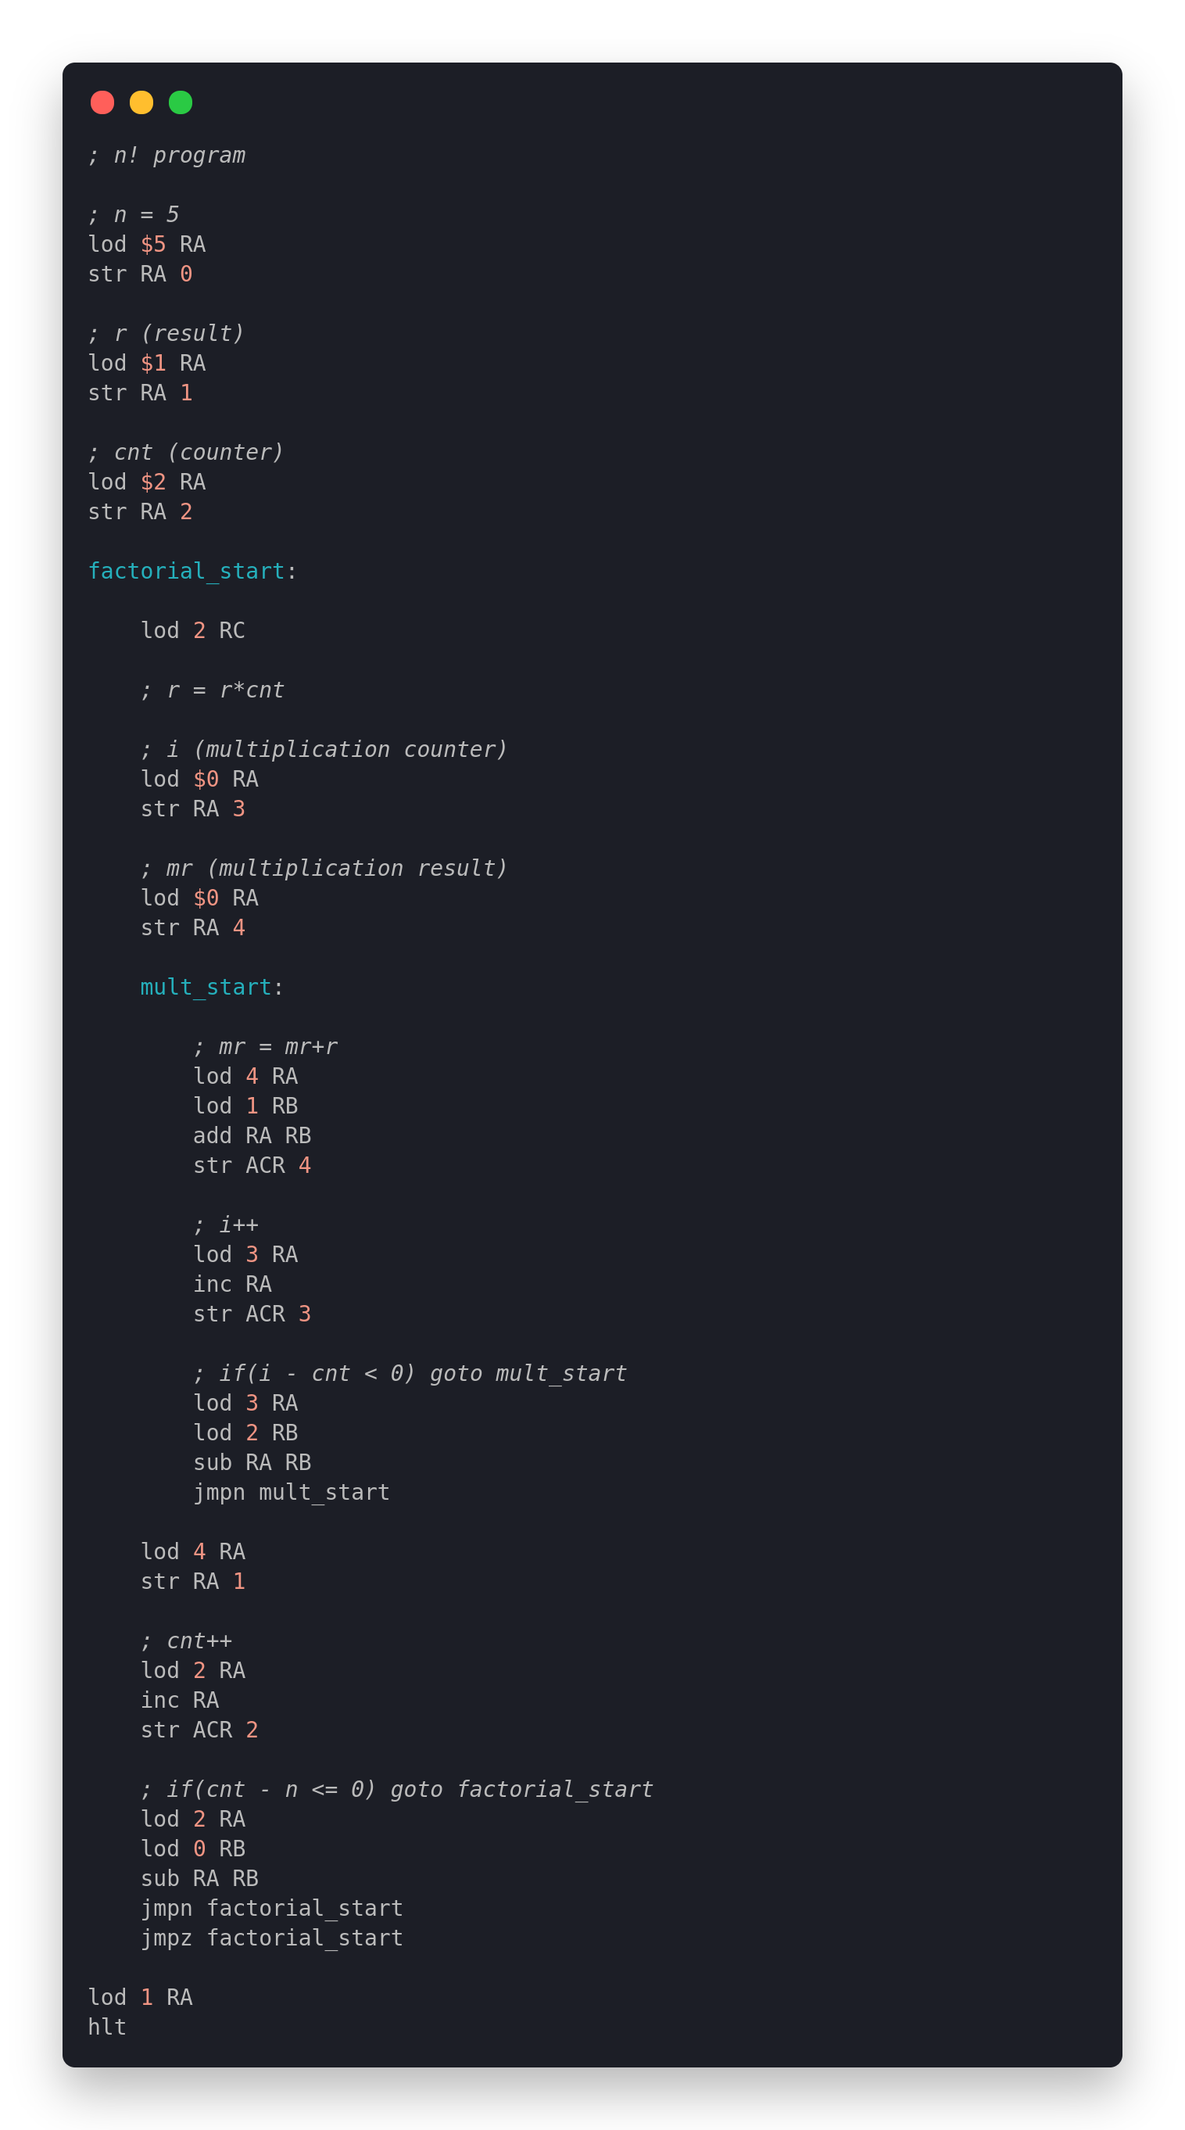
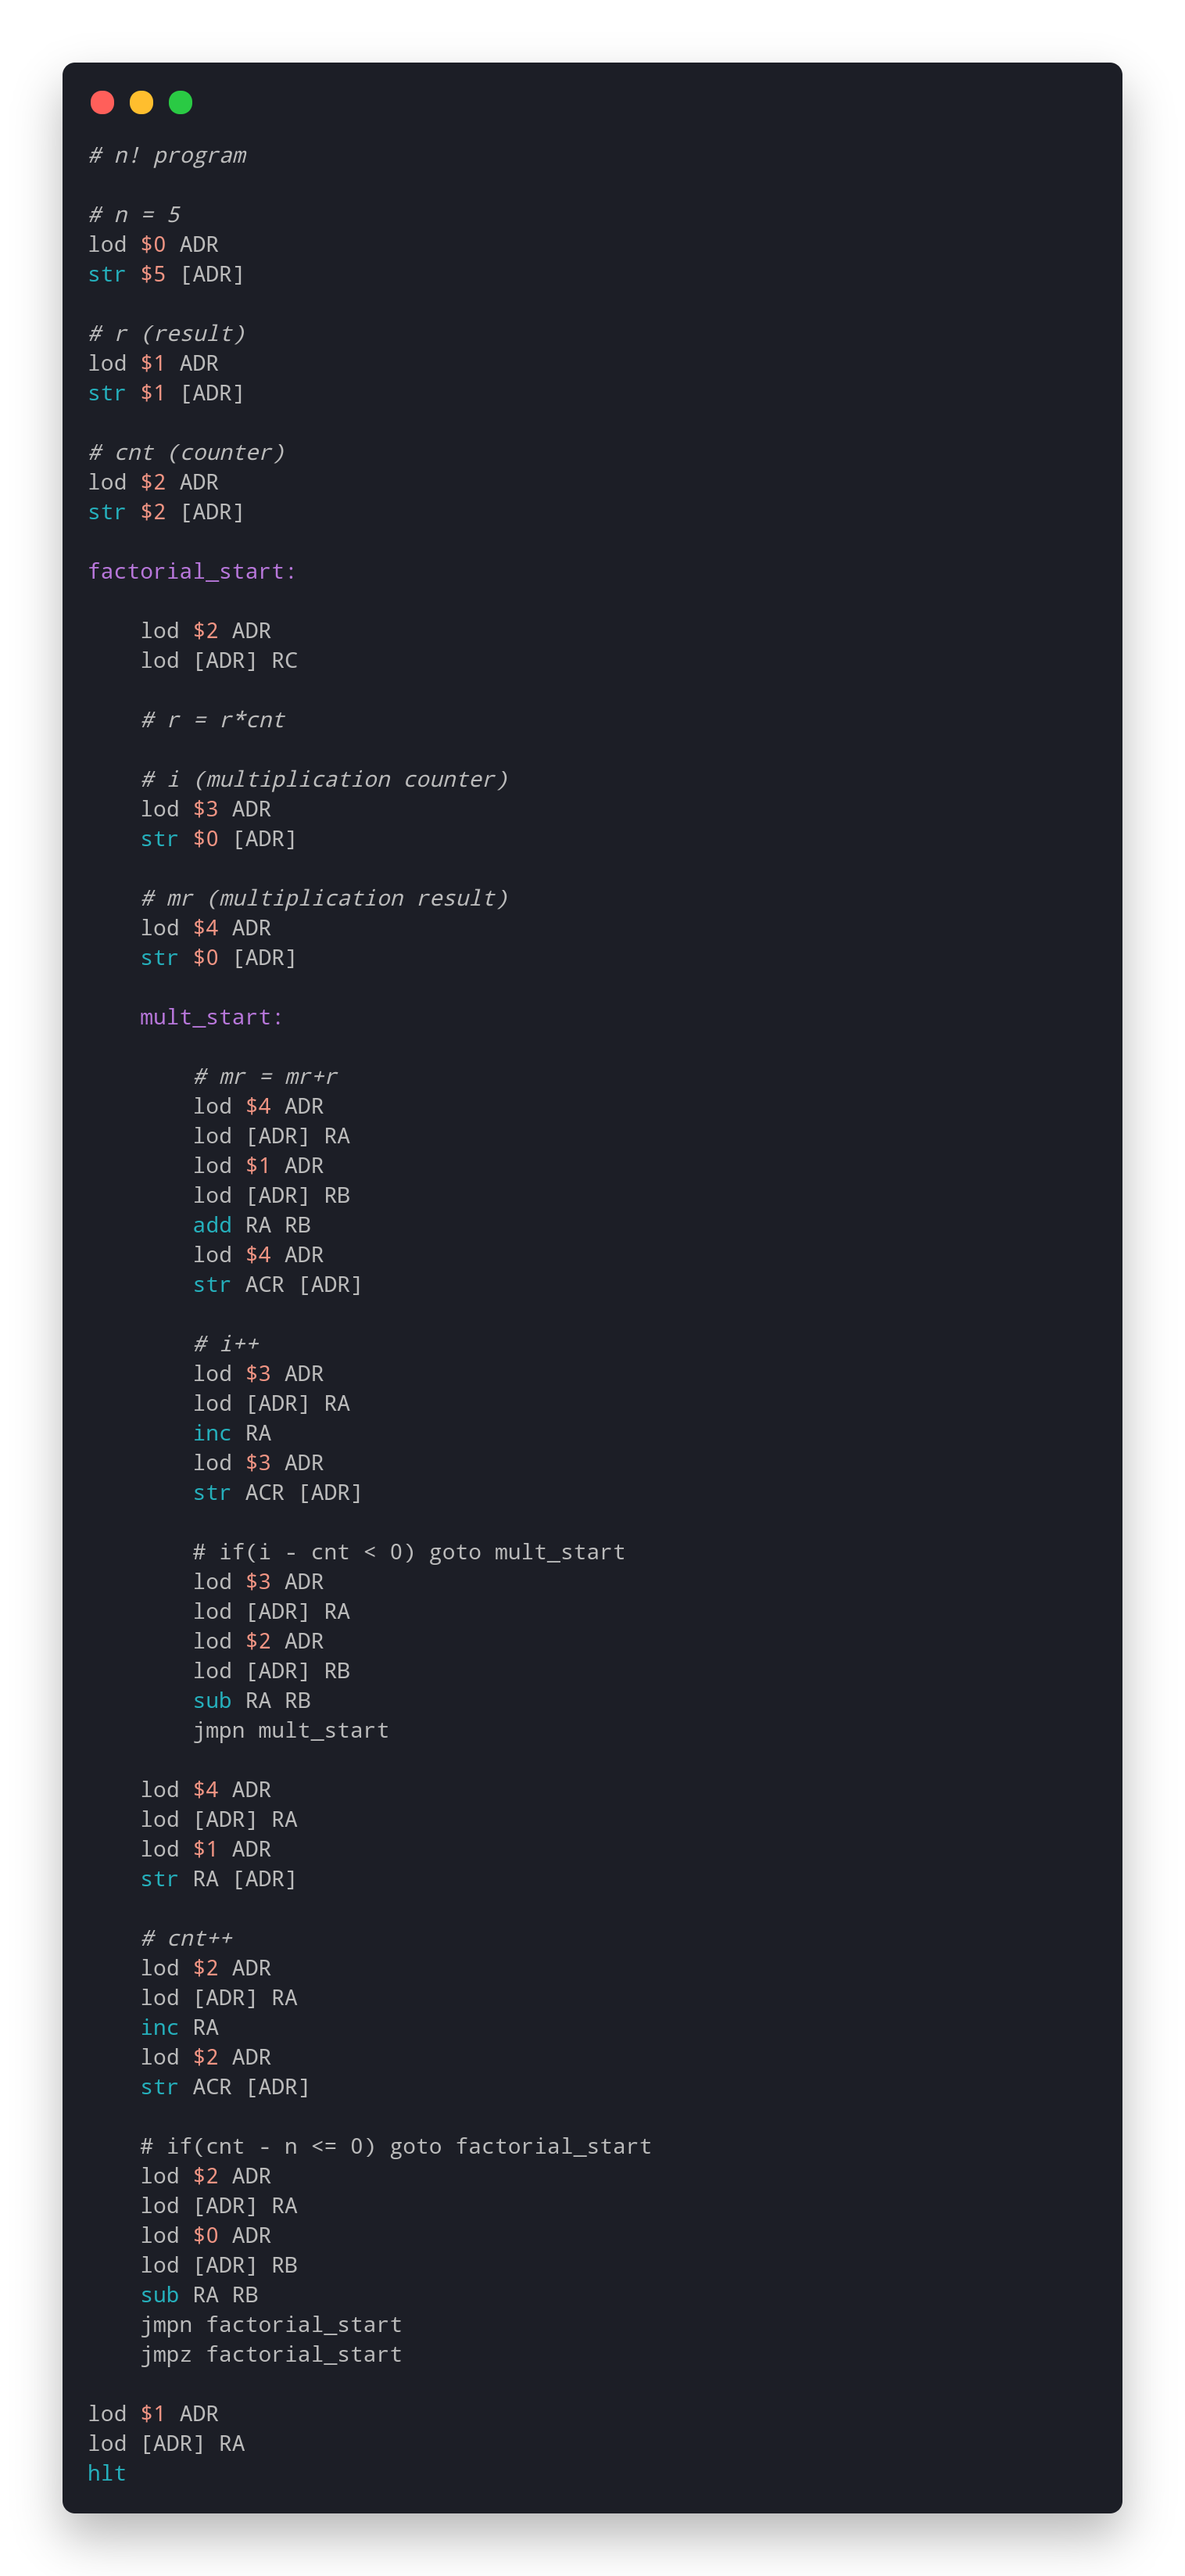
Updating README

diff --git a/README.md b/README.md
@@ -18,9 +18,9 @@
   </br>![alt text](https://github.com/dma-neves/8bitCPU/blob/main/other/seven_state_sm.png)
 
 **Specifications:**
-  - The CPU contains 3 general purpose registers RA RB RC, 3 instruction related registers IC (Instruction Counter) IR (Instruction Register) IDR (Instruction Data Register) and two accumulator registers PACR and IACR, an accomulator for the program and instruction counter respectively. It also contains a 3 bit flag register FLAGR.
-  - The 8bit ALU can perform 8 different operations. More detailed description: https://github.com/dma-neves/VHDL_ALU.
-  - The Control Unit cointains a 7 state SM (state 0 fetches the instruction | state 1 increments the IC | state 2 transfers IACR to IC | state 3 decodes and executes | state 4 and 5 do the same as 1 and 2) therefore the cpu executes 1 instruction every 7 clock cycles. It also contains a instruction decoder and a operation decoder that activates the correct [operations](https://github.com/dma-neves/8bitCPU/blob/main/other/instruction_outputs/instructionOutputs.txt) for each instruction.
+  - The CPU contains nine 8-bit registers: 3 general purpose registers RA RB RC, 3 instruction related registers IC (Instruction Counter) IR (Instruction Register) IDR (Instruction Data Register), a address register ADR and two accumulator registers PACR (Program Accomulator) and IACR (Instruction Counter Accomulator).
+  - The 8bit [ALU](https://github.com/dma-neves/VHDL_ALU) can perform 8 different operations and its flags can be stored in the 3 bit flag register FLAGR.
+  - The Control Unit cointains a 7 state SM (state 0 fetches the instruction | state 1 increments the IC | state 2 transfers IACR to IC | state 3 decodes and executes | state 4 and 5 do the same as 1 and 2) therefore the cpu executes 1 instruction every 7 clock cycles. The instruction decoder and operation decoder activate the correct [operations](https://github.com/dma-neves/8bitCPU/blob/main/other/instruction_outputs/instructionOutputs.txt) for each instruction.
   
 **ISA:**
 
@@ -43,23 +43,35 @@
 
 	Memory:
 
-	14 lod adr RA
-	15 str RA  adr
-	16 lod adr RB
-	17 str RB  adr
-	18 lod adr RC
-	19 str RC  adr
-	20 lod ACR RA
-	21 str ACR adr
-	22 lod $X  RA
+	14 lod $X  RA 
+	15 lod $X  RB
+	16 lod $X  RC
+	17 lod $X  ADR
+
+	18 str $X [ADR]
+	19 lod [X] ADR
+
+	20 lod [ADR] RA
+	21 str RA    [ADR]
+	22 lod [ADR] RB
+	23 str RB    [ADR]
+	24 lod [ADR] RC
+	25 str RC    [ADR]
+
+	26 lod ACR RA
+	27 lod ACR ADR
+	28 str ACR [ADR]
+
+	29 str IC [ADR]
 
 	Instruction change:
 
-	23 jmp  adr
-	24 jmpz adr
-	25 jmpn adr
-	26 jmpo adr
-	27 hlt
+	30 jmp  ADR
+	31 jmp  X
+	32 jmpz X
+	33 jmpn X
+	34 jmpo X
+	35 hlt
 
 
 **Programming the ROM**
